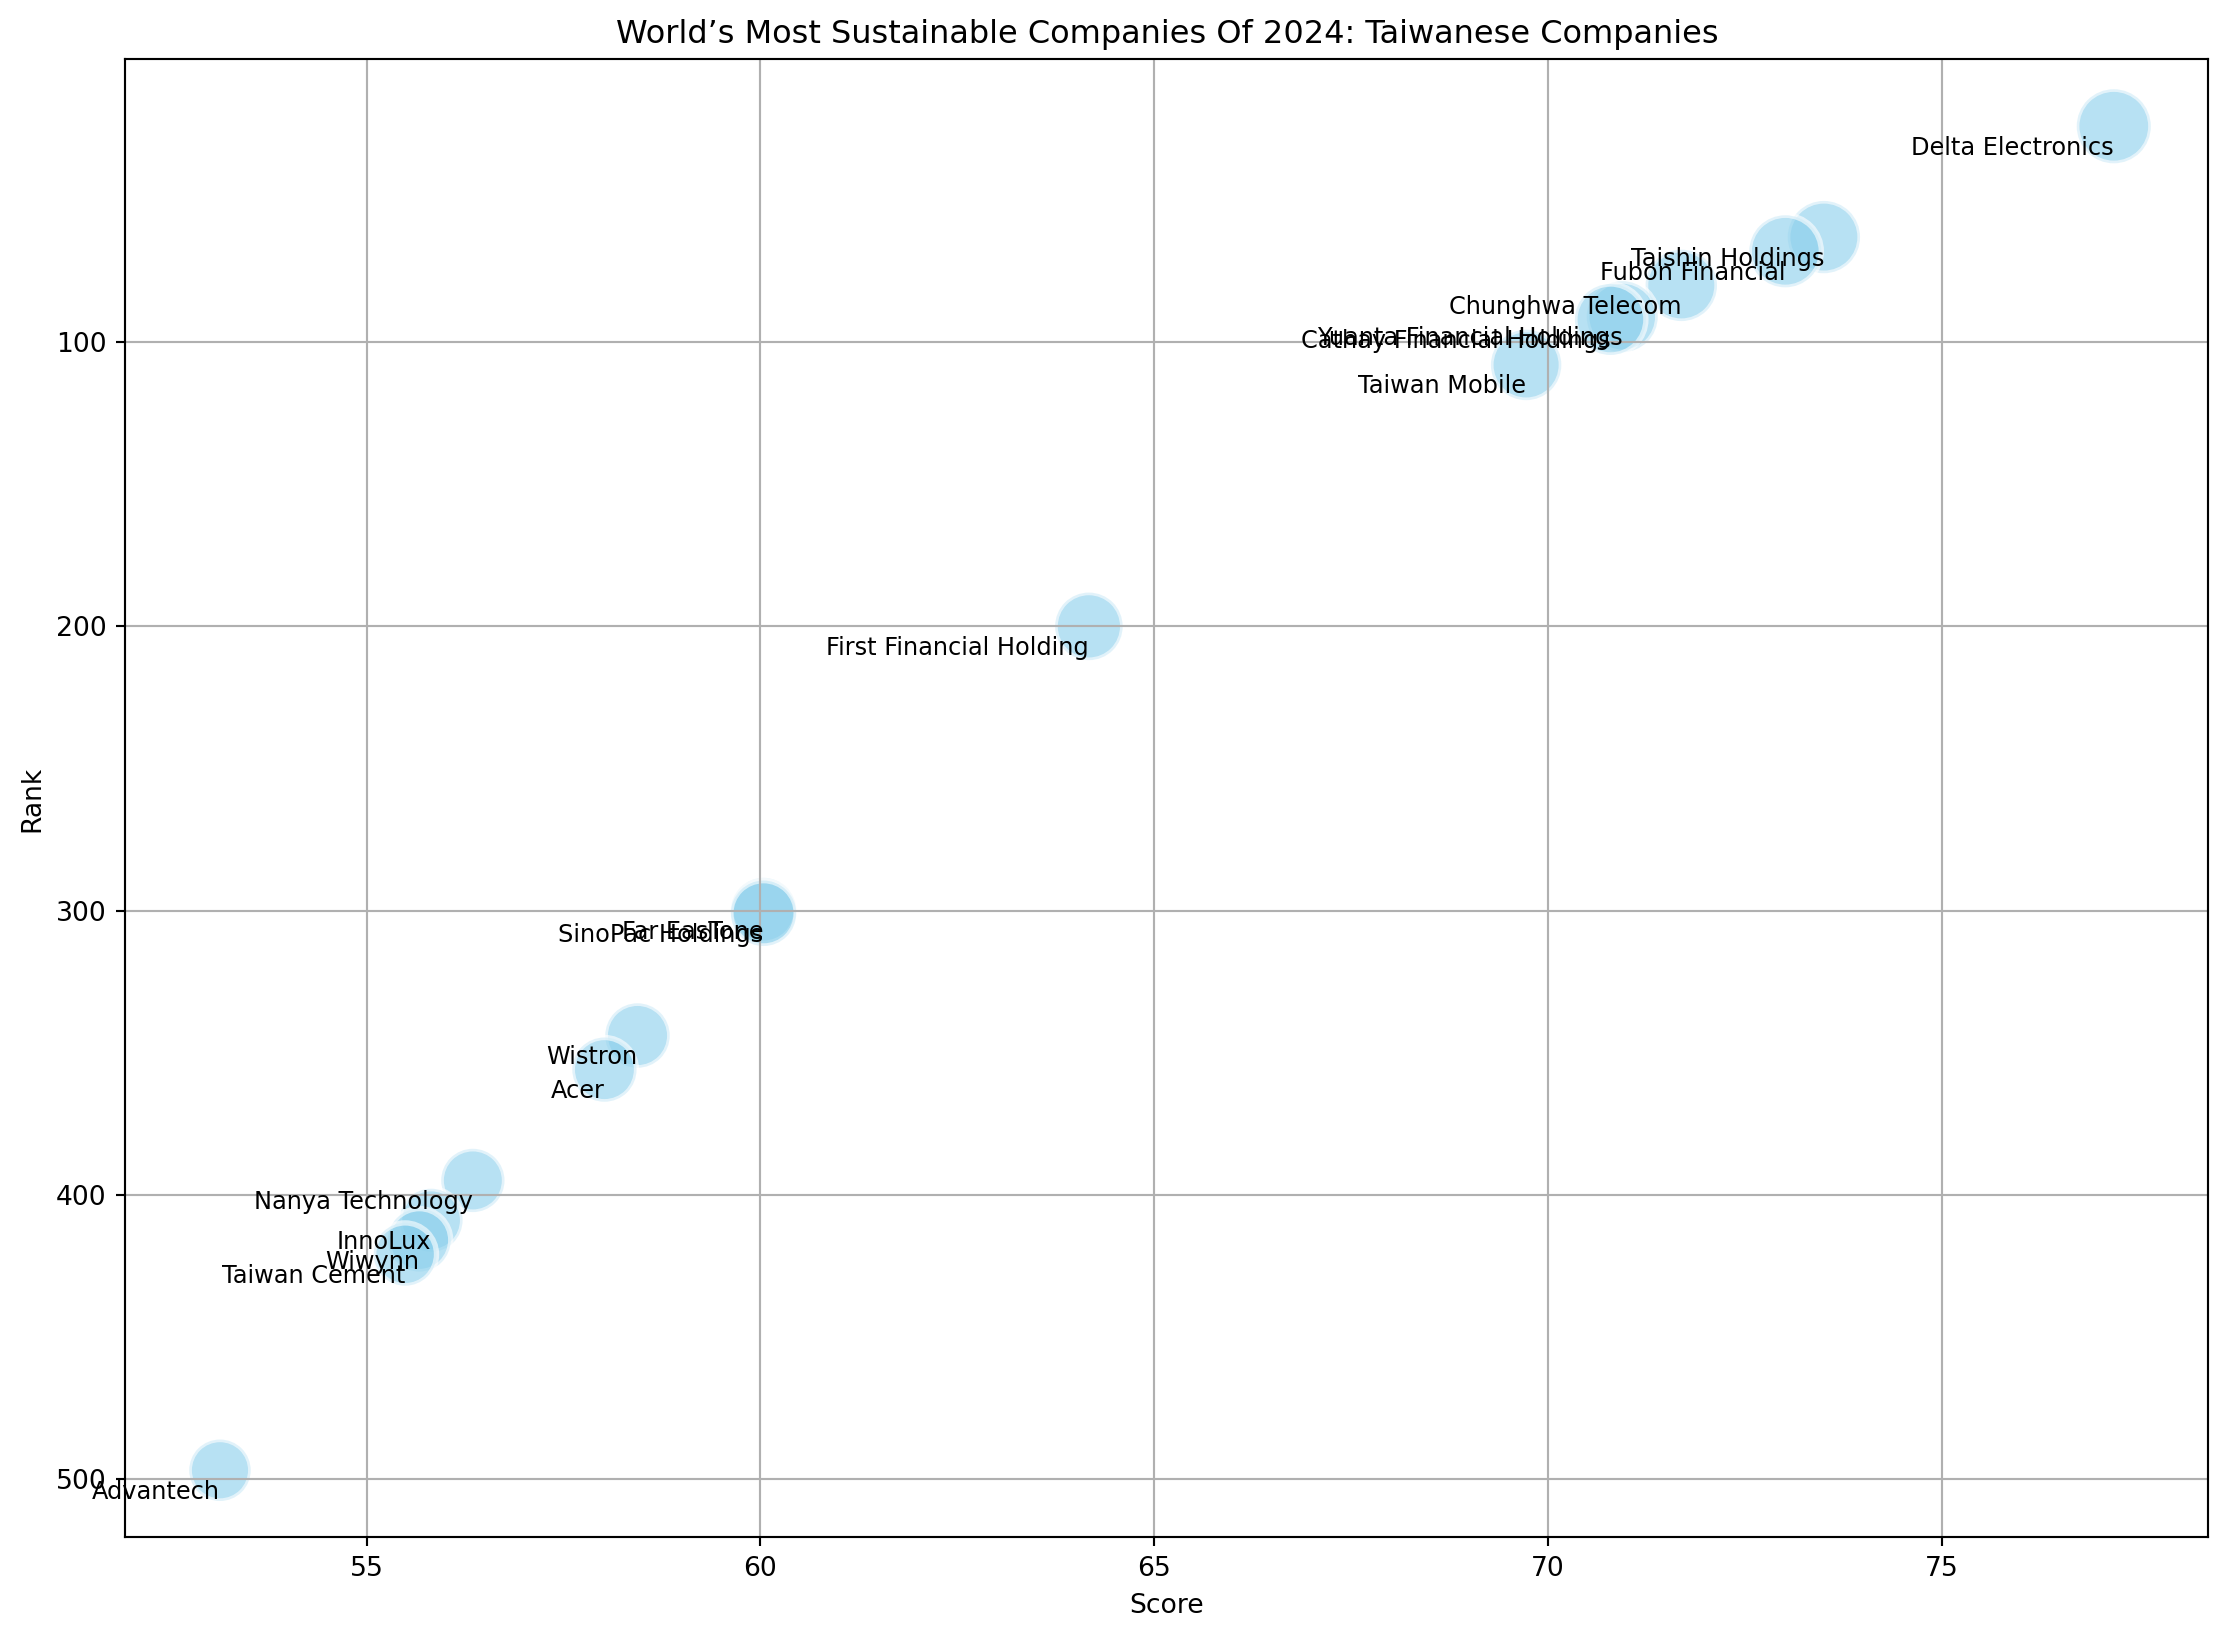
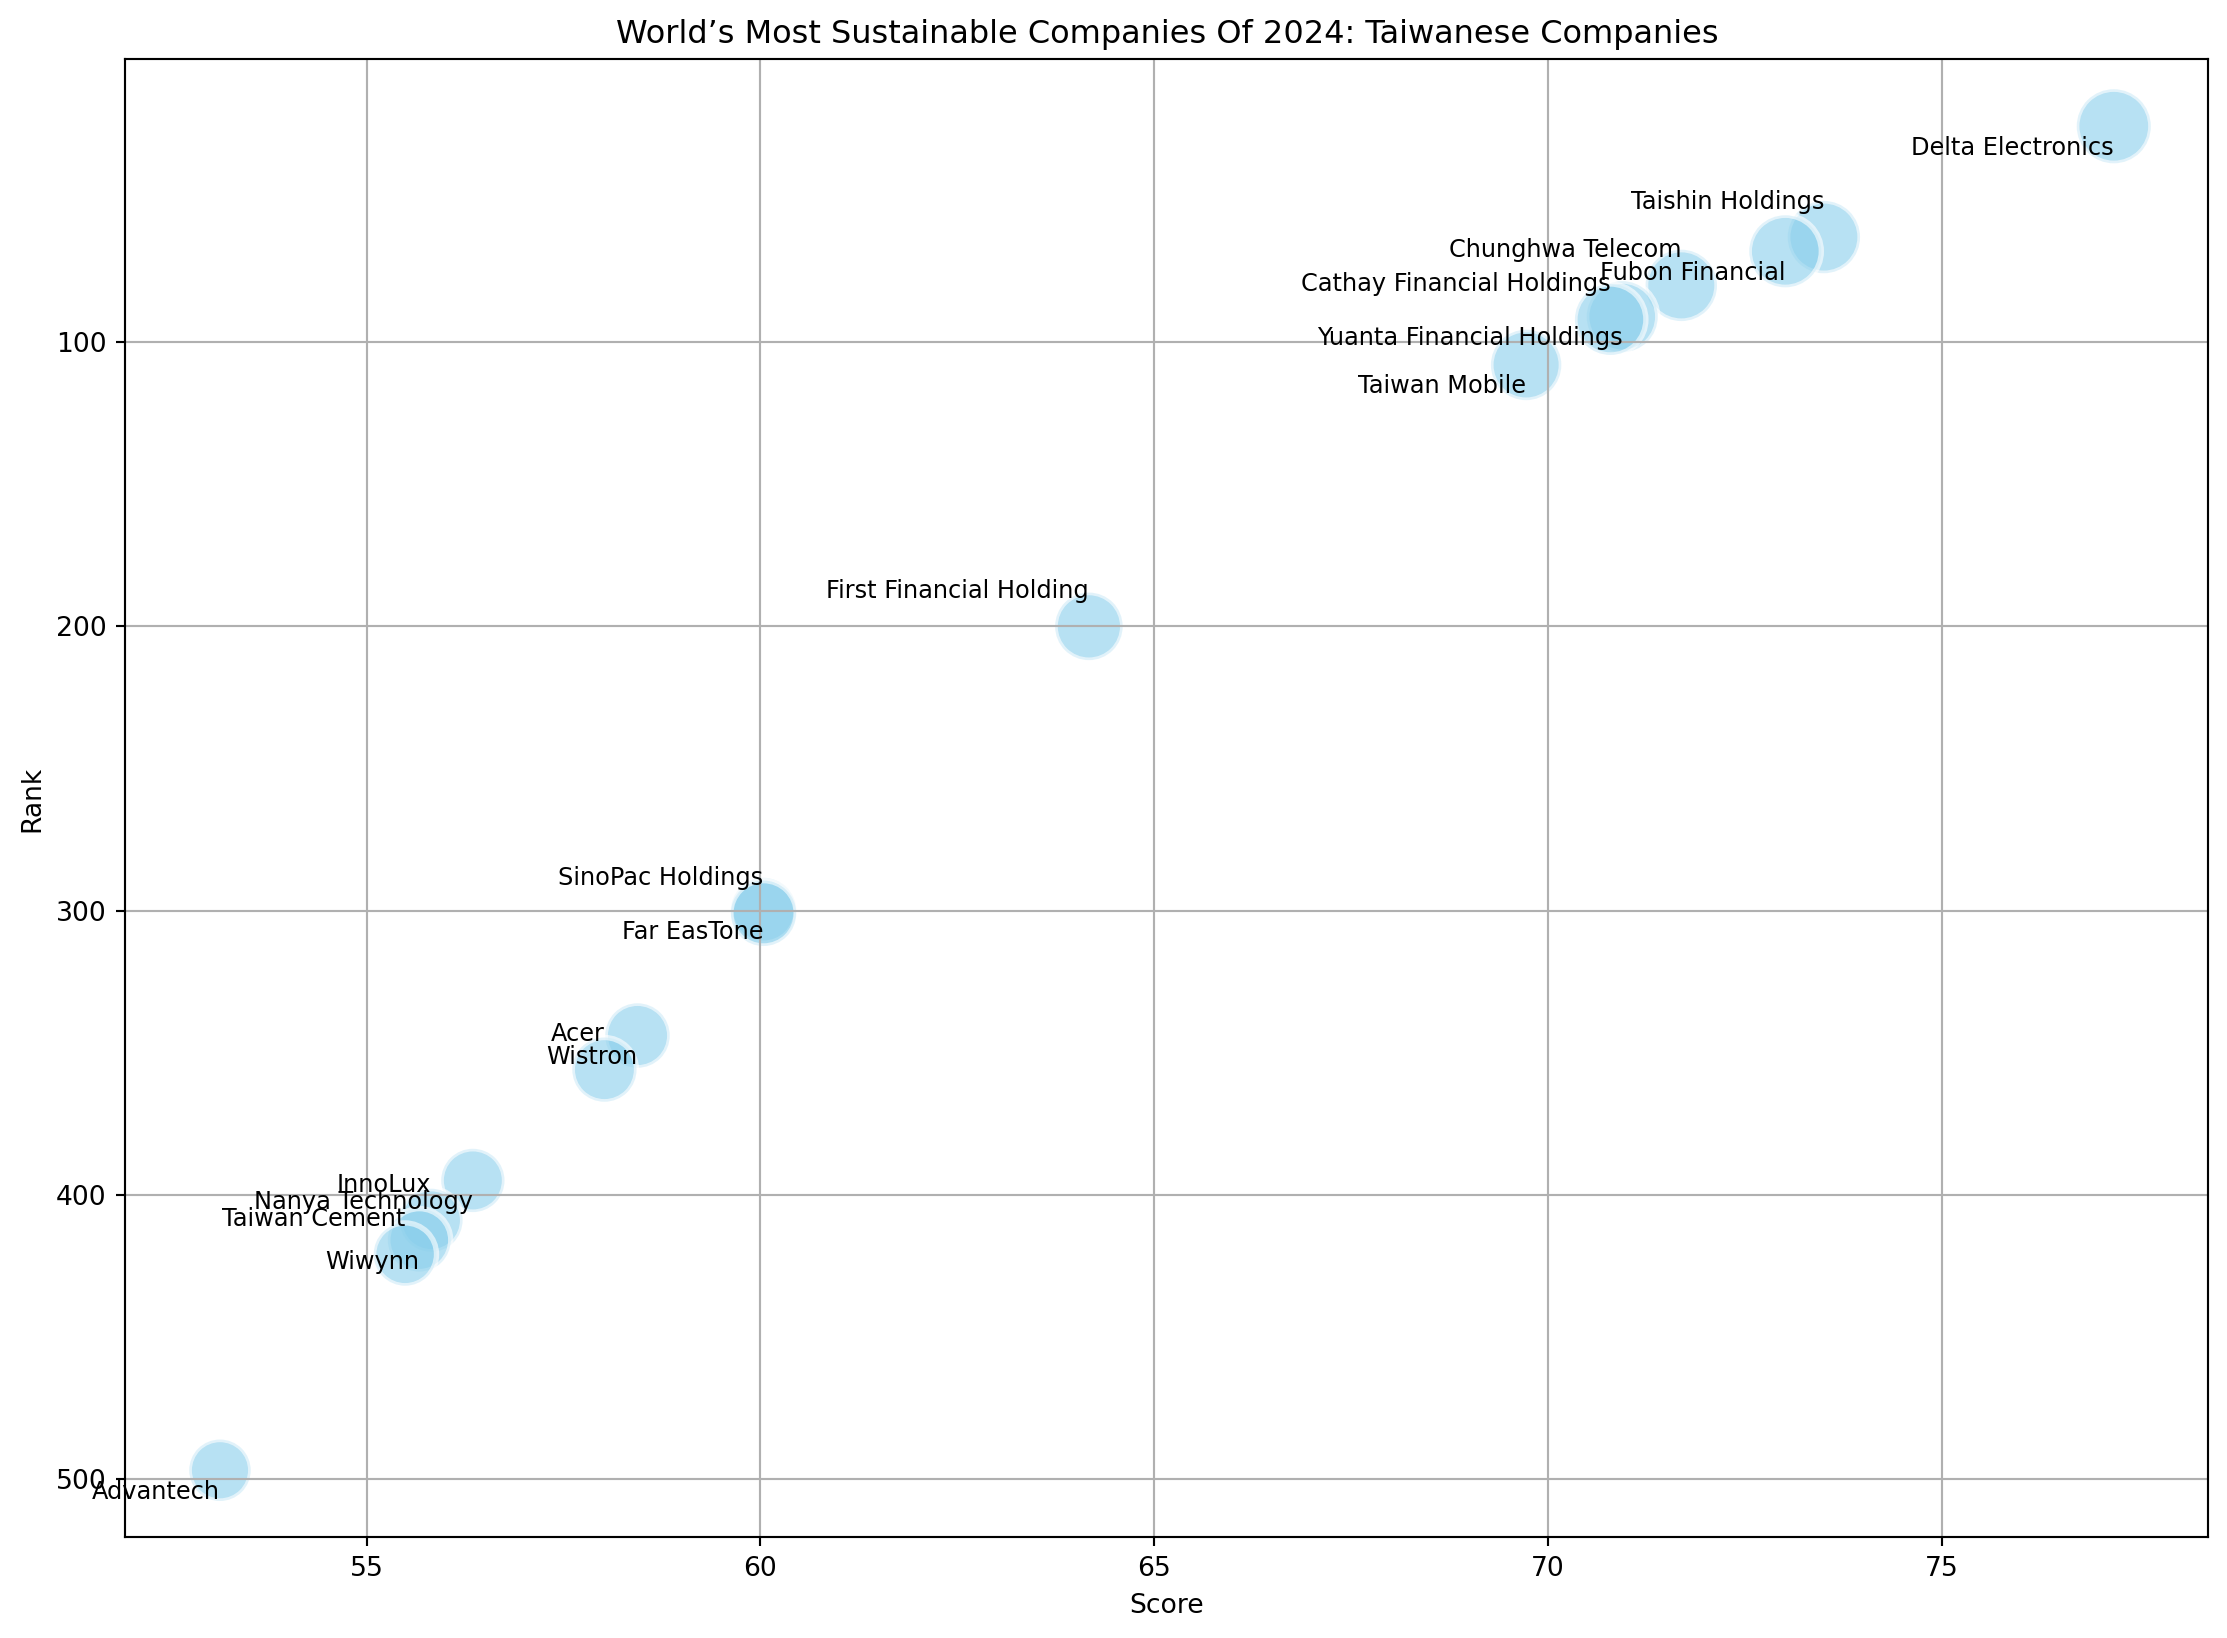
Update

diff --git a/research/literature/charts/college.py b/research/literature/charts/college.py
@@ -27,7 +27,9 @@ def company_rank_chart():
 
     # Adding annotations with manual adjustments
     for i in range(len(df_sustainability)):
-        plt.text(df_sustainability['Score'][i], df_sustainability['Rank'][i] + 10, df_sustainability['Company'][i], fontsize=9, ha='right')
+        # Adjust text position based on the rank to minimize overlap
+        y_offset = 10 if i % 2 == 0 else -10  # Alternate offset for better spacing
+        plt.text(df_sustainability['Score'][i], df_sustainability['Rank'][i] + y_offset, df_sustainability['Company'][i], fontsize=9, ha='right')
 
     plt.grid(True)
     plt.show()
